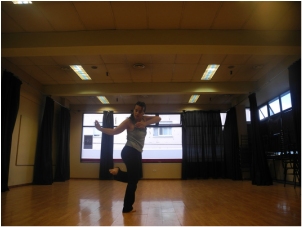
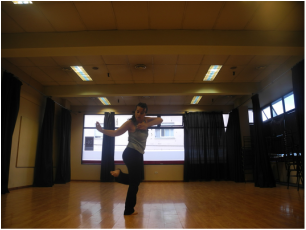
danza and entrenamiento updated

diff --git a/danza.html b/danza.html
@@ -11,7 +11,7 @@
 		<link id="wsite-base-style" rel="stylesheet" type="text/css" href="http://cdn2.editmysite.com/css/sites.css?buildTime=1234" />
 <link rel="stylesheet" type="text/css" href="http://cdn1.editmysite.com/editor/libraries/fancybox/fancybox.css?1234" />
 <link rel="stylesheet" type="text/css" href="http://cdn2.editmysite.com/css/social-icons.css?buildtime=1234" media="screen,projection" />
-<link rel="stylesheet" type="text/css" href="files/main_style.css?1462127365" title="wsite-theme-css" />
+<link rel="stylesheet" type="text/css" href="files/main_style.css?1462133523" title="wsite-theme-css" />
 <link href='http://fonts.googleapis.com/css?family=Open+Sans:400,300,300italic,700,400italic,700italic&subset=latin,latin-ext' rel='stylesheet' type='text/css' />
 <link href='http://fonts.googleapis.com/css?family=Raleway:400,300,200,700&subset=latin,latin-ext' rel='stylesheet' type='text/css' />
 
@@ -232,7 +232,7 @@ var STYLE_PREFIX = 'wsite';
 	<table class="wsite-multicol-table">
 		<tbody class="wsite-multicol-tbody">
 			<tr class="wsite-multicol-tr">
-				<td class="wsite-multicol-col" style="width:33.333333333333%; padding:0 15px;">
+				<td class="wsite-multicol-col" style="width:33.838383838384%; padding:0 15px;">
 					
 						
 
@@ -245,7 +245,15 @@ var STYLE_PREFIX = 'wsite';
 
 
 					
-				</td>				<td class="wsite-multicol-col" style="width:33.333333333333%; padding:0 15px;">
+				</td>				<td class="wsite-multicol-col" style="width:66.161616161616%; padding:0 15px;">
+					
+						
+
+<div><div class="wsite-multicol"><div class="wsite-multicol-table-wrap" style="margin:0 -15px;">
+	<table class="wsite-multicol-table">
+		<tbody class="wsite-multicol-tbody">
+			<tr class="wsite-multicol-tr">
+				<td class="wsite-multicol-col" style="width:50%; padding:0 15px;">
 					
 						
 
@@ -256,15 +264,17 @@ var STYLE_PREFIX = 'wsite';
 <div style="display:block;font-size:90%"></div>
 </div></div>
 
+<div class="paragraph" style="text-align:center;">Muestra alumnos</div>
+
 
 					
-				</td>				<td class="wsite-multicol-col" style="width:33.333333333333%; padding:0 15px;">
+				</td>				<td class="wsite-multicol-col" style="width:50%; padding:0 15px;">
 					
 						
 
-<div><div class="wsite-image wsite-image-border-none " style="padding-top:10px;padding-bottom:10px;margin-left:0px;margin-right:10px;text-align:right">
+<div><div class="wsite-image wsite-image-border-border-width:0 " style="padding-top:10px;padding-bottom:10px;margin-left:0;margin-right:0;text-align:left">
 <a>
-<img src="uploads/7/2/7/5/72758963/7282353.jpg?1462127072" alt="Picture" style="width:auto;max-width:100%" />
+<img src="uploads/7/2/7/5/72758963/393638.jpg?465" alt="Picture" style="width:465;max-width:100%" />
 </a>
 <div style="display:block;font-size:90%"></div>
 </div></div>
@@ -276,7 +286,14 @@ var STYLE_PREFIX = 'wsite';
 	</table>
 </div></div></div>
 
-<blockquote style="text-align:left;"><font size="6"><span>Un lenguaje propio basado en la t&eacute;cnica</span></font><span><font size="6"> release &amp; flying low</font></span></blockquote>
+
+					
+				</td>			</tr>
+		</tbody>
+	</table>
+</div></div></div>
+
+<blockquote style="text-align:left;"><font size="6"><span>Un lenguaje propio basado en</span></font><span><font size="6">&nbsp;t&eacute;cnicas mixtas, release &amp; flying low e improvisaci&oacute;n</font></span></blockquote>
 
 <div><div style="height: 20px; overflow: hidden; width: 100%;"></div>
 <hr class="styled-hr" style="width:100%;"></hr>
@@ -290,7 +307,7 @@ var STYLE_PREFIX = 'wsite';
 					
 						
 
-<div class="paragraph" style="text-align:left;"><span id="selectionBoundary_1462126994097_659158622008313"><br />&#65279;</span><font size="5"><font color="#818181"><strong>Clases de Danza Contempor&aacute;nea</strong></font>&#65279;</font><font color="#515151"><br /><br /><font size="4">&#8203;Un recorrido por el cuerpo humano, concientizando y sensibilizando las diferentes partes del cuerpo, desde la partes m&aacute;s blandas, m&uacute;sculos y huesos.&nbsp;<br /><br />Entrenar y descubrir las potencialidades de cada uno, explorando dentro de la t&eacute;cnica el lenguaje que cada individuo puede desarrollar.&nbsp;<br /><br />Conceptos a trabajar: alineamiento, flexibilidad, calidad de movimiento, peso, apoyos del cuerpo, centro y extremidades del cuerpo, ca&iacute;da y recuperaci&oacute;n, espirales y torsi&oacute;n, suspensi&oacute;n del movimiento, impulsos, uso m&iacute;nimo del tono muscular, uso del espacio, din&aacute;micas y niveles.&nbsp;<br /><br />Asimismo se brindar&aacute; un espacio para la investigaci&oacute;n del movimiento, a trav&eacute;s de ejercicios de<br />improvisaci&oacute;n, ejercicios y juegos grupales de composici&oacute;n instant&aacute;nea reconociendo diferentes maneras de relaci&oacute;n con el espacio y con los otros.&nbsp;<br /><br />&#8203;Montaje de peque&ntilde;os formatos &uacute;tiles para la escena teatral, piezas coreogr&aacute;ficas y performance.&nbsp;<br />Realizaci&oacute;n de muestra anual con participaci&oacute;n de los alumnos y co direcci&oacute;n.<br /><br /></font></font><a href="http://www.silvinadamia.com/entrenamiento.html"><strong>Tambi&eacute;n se dictan Clases de&nbsp;Entrenamiento Corporal Integral</strong></a><font color="#515151"></font><br /></div>
+<div class="paragraph" style="text-align:left;"><br /><span id="selectionBoundary_1462126994097_659158622008313">&#65279;</span><font size="5"><font color="#818181"><strong>Clases de Danza Contempor&aacute;nea</strong></font>&#65279;</font><font color="#515151"><br /><br /><font size="4">&#8203;Un recorrido por el cuerpo humano, concientizando y sensibilizando las diferentes partes del cuerpo, desde la partes m&aacute;s blandas, m&uacute;sculos y huesos.&nbsp;<br /><br />Entrenar y descubrir las potencialidades de cada uno, explorando dentro de la t&eacute;cnica el lenguaje que cada individuo puede desarrollar.&nbsp;<br /><br />Conceptos a trabajar: alineamiento, flexibilidad, calidad de movimiento, peso, apoyos del cuerpo, centro y extremidades del cuerpo, ca&iacute;da y recuperaci&oacute;n, espirales y torsi&oacute;n, suspensi&oacute;n del movimiento, impulsos, uso m&iacute;nimo del tono muscular, uso del espacio, din&aacute;micas y niveles.&nbsp;<br /><br />Asimismo se brindar&aacute; un espacio para la investigaci&oacute;n del movimiento, a trav&eacute;s de ejercicios de<br />improvisaci&oacute;n, ejercicios y juegos grupales de composici&oacute;n instant&aacute;nea reconociendo diferentes maneras de relaci&oacute;n con el espacio y con los otros.&nbsp;<br /><br />&#8203;Montaje de peque&ntilde;os formatos &uacute;tiles para la escena teatral, piezas coreogr&aacute;ficas y performance.&nbsp;<br />Realizaci&oacute;n de muestra anual con participaci&oacute;n de los alumnos y co direcci&oacute;n.</font></font><br /><br /><strong>Tambi&eacute;n se dictan Clases de&nbsp;Entrenamiento Corporal Integral&nbsp;-<a href="http://www.silvinadamia.com/entrenamiento.html">&nbsp;Ver m&aacute;s</a></strong></div>
 
 
 					
@@ -300,7 +317,62 @@ var STYLE_PREFIX = 'wsite';
 
 <h2 class="wsite-content-title" style="text-align:center;"><span id="selectionBoundary_1455480009527_9425262517761439"><font size="5"><strong><font color="#818181">&#65279;<br />&#8203;Clase de prueba gratis*</font></strong></font><br /><font size="3"><font color="#818181"><br />Empez&aacute; ahora</font><font color="#626262">!</font></font></span></h2>
 
-<div><div id="410043484988612546" align="center" style="width: 100%; overflow-y: hidden;" class="wcustomhtml"> <iframe id="JotFormIFrame" onload="window.parent.scrollTo(0,0)" allowtransparency="true" src="https://form.jotformz.com/61214989794673" frameborder="0" style="width:100%; height:539px; border:none;" scrolling="no"> </iframe> <script type="text/javascript"> window.handleIFrameMessage = function(e) { var args = e.data.split(":"); var iframe = document.getElementById("JotFormIFrame"); if (!iframe) return; switch (args[0]) { case "scrollIntoView": iframe.scrollIntoView(); break; case "setHeight": iframe.style.height = args[1] + "px"; break; case "collapseErrorPage": if (iframe.clientHeight > window.innerHeight) { iframe.style.height = window.innerHeight + "px"; } break; case "reloadPage": window.location.reload(); break; } var isJotForm = (e.origin.indexOf("jotform") > -1) ? true : false; if(isJotForm && "contentWindow" in iframe && "postMessage" in iframe.contentWindow) { var urls = {"docurl":encodeURIComponent(document.URL),"referrer":encodeURIComponent(document.referrer)}; iframe.contentWindow.postMessage(JSON.stringify({"type":"urls","value":urls}), "*"); } }; if (window.addEventListener) { window.addEventListener("message", handleIFrameMessage, false); } else if (window.attachEvent) { window.attachEvent("onmessage", handleIFrameMessage); } if(window.location.href && window.location.href.indexOf("?") > -1) { var ifr = document.getElementById("JotFormIFrame"); var get = window.location.href.substr(window.location.href.indexOf("?") + 1); if(ifr && get.length > 0) { var src = ifr.src; src = src.indexOf("?") > -1 ? src + "&" + get : src + "?" + get; ifr.src = src; } } </script></div>
+<div><div id="774631905658495192" align="left" style="width: 100%; overflow-y: hidden;" class="wcustomhtml">
+    <iframe
+      id="JotFormIFrame"
+      onload="window.parent.scrollTo(0,0)"
+      allowtransparency="true"
+      src="https://form.jotformz.com/61215307856657"
+      frameborder="0"
+      style="width:100%;
+      height:539px;
+      border:none;"
+      scrolling="no">
+    </iframe>
+    <script type="text/javascript">
+      window.handleIFrameMessage = function(e) {
+        var args = e.data.split(":");
+        var iframe = document.getElementById("JotFormIFrame");
+        if (!iframe)
+          return;
+        switch (args[0]) {
+          case "scrollIntoView":
+            iframe.scrollIntoView();
+            break;
+          case "setHeight":
+            iframe.style.height = args[1] + "px";
+            break;
+          case "collapseErrorPage":
+            if (iframe.clientHeight > window.innerHeight) {
+              iframe.style.height = window.innerHeight + "px";
+            }
+            break;
+          case "reloadPage":
+            window.location.reload();
+            break;
+        }
+        var isJotForm = (e.origin.indexOf("jotform") > -1) ? true : false;
+        if(isJotForm && "contentWindow" in iframe && "postMessage" in iframe.contentWindow) {
+          var urls = {"docurl":encodeURIComponent(document.URL),"referrer":encodeURIComponent(document.referrer)};
+          iframe.contentWindow.postMessage(JSON.stringify({"type":"urls","value":urls}), "*");
+        }
+      };
+      if (window.addEventListener) {
+        window.addEventListener("message", handleIFrameMessage, false);
+      } else if (window.attachEvent) {
+        window.attachEvent("onmessage", handleIFrameMessage);
+      }
+      if(window.location.href && window.location.href.indexOf("?") > -1) {
+        var ifr = document.getElementById("JotFormIFrame");
+        var get = window.location.href.substr(window.location.href.indexOf("?") + 1);
+        if(ifr && get.length > 0) {
+          var src = ifr.src;
+          src = src.indexOf("?") > -1 ? src + "&" + get : src  + "?" + get;
+          ifr.src = src;
+        }
+      }
+      </script>
+</div>
 
 
 
@@ -334,9 +406,9 @@ var STYLE_PREFIX = 'wsite';
 					
 						
 
-<div><div class="wsite-image wsite-image-border-border-width:0 " style="padding-top:10px;padding-bottom:10px;margin-left:0;margin-right:0;text-align:left">
+<div><div class="wsite-image wsite-image-border-none " style="padding-top:10px;padding-bottom:10px;margin-left:0px;margin-right:10px;text-align:right">
 <a>
-<img src="uploads/7/2/7/5/72758963/393638.jpg?465" alt="Picture" style="width:465;max-width:100%" />
+<img src="uploads/7/2/7/5/72758963/7282353.jpg?1462131848" alt="Picture" style="width:auto;max-width:100%" />
 </a>
 <div style="display:block;font-size:90%"></div>
 </div></div>
@@ -366,7 +438,7 @@ var STYLE_PREFIX = 'wsite';
 
     <div class="footer-wrap">
       <div class="container">
-        <div class="footer">Create a <a target="_top" href="http://www.weebly.com/">free web site</a> with <a target="_top" href="http://www.weebly.com/" title="sitio web gratuito">Weebly</a></div>
+        <div class="footer">Create a <a target="_top" href="http://www.weebly.com/">free web site</a> with <a target="_top" href="http://www.weebly.com/" title="free web site">Weebly</a></div>
       </div><!-- end container -->
     </div><!-- end footer-wrap -->
   </div><!-- /.wrapper -->

diff --git a/files/main_style.css b/files/main_style.css
@@ -50,7 +50,7 @@
  #wsite-menus .wsite-menu-arrow:before { display: block; color: white; content: '\203A'; font-family: 'Open Sans', sans-serif; font-size: 24px; font-weight: normal; line-height: 11px; }
  #wsite-mini-cart { position: fixed !important; top: 80px !important; overflow-y: scroll; max-height: 600px; -webkit-box-shadow: none; -moz-box-shadow: none; box-shadow: none; }
  #wsite-mini-cart .wsite-css-aspect { width: 50px; height: 50px; margin: 10px; }
- .banner-wrap { position: relative; z-index: 6; overflow: hidden; height: 100%; background: url('theme/default-bg.jpg?1462127365') center center no-repeat; background-size: cover; -webkit-transition: all 500ms ease; -moz-transition: all 500ms ease; -ms-transition: all 500ms ease; -o-transition: all 500ms ease; transition: all 500ms ease; }
+ .banner-wrap { position: relative; z-index: 6; overflow: hidden; height: 100%; background: url('theme/default-bg.jpg?1462133523') center center no-repeat; background-size: cover; -webkit-transition: all 500ms ease; -moz-transition: all 500ms ease; -ms-transition: all 500ms ease; -o-transition: all 500ms ease; transition: all 500ms ease; }
  .banner-wrap:before { position: absolute; top: 0; left: 0; width: 100%; height: 100%; background: rgba(0, 0, 0, 0.2); content: ' '; }
  .banner-wrap .container { position: relative; display: table; width: 100%; height: 100%; padding: 80px 0; }
  .banner-wrap .banner { display: table-cell; width: 100%; vertical-align: middle; text-align: center; -webkit-transition: all 500ms ease; -moz-transition: all 500ms ease; -ms-transition: all 500ms ease; -o-transition: all 500ms ease; transition: all 500ms ease; }
@@ -80,7 +80,7 @@
  .footer-wrap input[type="checkbox"]:after { background: #181818; border: solid #2a92e5; }
  .footer-wrap .wsite-form-container { margin-top: 0; text-align: left; }
  .footer-wrap .wsite-form-input, .footer-wrap .wsite-search-element-input { padding: 10px 6px !important; background: #181818; color: #626262; border: none; border-radius: 5px; font-family: 'Open Sans', sans-serif; font-size: 14px; font-weight: 400; line-height: normal; }
- .footer-wrap .form-select { padding: 10px; background: #181818 url(theme/select-dropdown.png?1462127365) 97% center no-repeat; color: #626262; border: none; border-radius: 5px; font-family: 'Open Sans', sans-serif; font-size: 14px; font-weight: 400; line-height: 15px; }
+ .footer-wrap .form-select { padding: 10px; background: #181818 url(theme/select-dropdown.png?1462133523) 97% center no-repeat; color: #626262; border: none; border-radius: 5px; font-family: 'Open Sans', sans-serif; font-size: 14px; font-weight: 400; line-height: 15px; }
  .footer-wrap .wsite-button .wsite-button-inner, .footer-wrap .wsite-button-large .wsite-button-inner { background: transparent; color: #2a92e5 !important; border: 2px solid #2a92e5; }
  .footer-wrap .wsite-button:hover .wsite-button-inner, .footer-wrap .wsite-button-large:hover .wsite-button-inner { background: #2a92e5; color: #ffffff !important; }
  .wsite-social-item { display: inline-block !important; width: 30px !important; height: 30px !important; margin-right: 10px; background: #515151; border-radius: 15px; text-align: center; -webkit-transition: all 300ms ease; -moz-transition: all 300ms ease; -ms-transition: all 300ms ease; -o-transition: all 300ms ease; transition: all 300ms ease; }
@@ -101,7 +101,7 @@
  .wsite-form-input:focus, .wsite-form-input--focus, .wsite-search-element-input:focus { border-color: #a1a1a1; }
  .wsite-search-element { margin-bottom: 15px; }
  .wsite-search-element .wsite-search-element-input { margin-bottom: 0; }
- .form-select, .wsite-form-field select, .wsite-com-product-option-groups select { height: 40px; padding: 8px; background: #fafafa url(theme/select-dropdown.png?1462127365) 97% center no-repeat; color: #626262; border: 1px solid #cccccc; border-radius: 2px; box-sizing: border-box; font-family: 'Open Sans', sans-serif; font-size: 15px; font-weight: 300; line-height: normal; }
+ .form-select, .wsite-form-field select, .wsite-com-product-option-groups select { height: 40px; padding: 8px; background: #fafafa url(theme/select-dropdown.png?1462133523) 97% center no-repeat; color: #626262; border: 1px solid #cccccc; border-radius: 2px; box-sizing: border-box; font-family: 'Open Sans', sans-serif; font-size: 15px; font-weight: 300; line-height: normal; }
  .form-select:focus, .wsite-form-field select:focus, .wsite-com-product-option-groups select:focus { border-color: #a1a1a1; }
  .formlist, .wsite-editor .formlist { min-height: inherit; }
  .wsite-form-container .form-input-error { border: 1px solid red !important; }
@@ -143,7 +143,7 @@
  .splash-page { position: relative; top: 0; left: 0; width: 100%; height: 100%; min-height: 100vh; background: none; color: #ffffff; box-sizing: border-box; }
  .splash-page .wrapper { height: 100%; }
  .splash-page .birdseye-header { padding-top: 20px; padding-bottom: 20px; background: none; background-image: none !important; box-sizing: border-box; }
- .splash-page .main-wrap { position: relative; display: table; width: 100%; height: 100%; min-height: 100vh; background: url(theme/default-bg.jpg?1462127365) no-repeat; background-attachment: fixed !important; background-size: cover; box-sizing: border-box; }
+ .splash-page .main-wrap { position: relative; display: table; width: 100%; height: 100%; min-height: 100vh; background: url(theme/default-bg.jpg?1462133523) no-repeat; background-attachment: fixed !important; background-size: cover; box-sizing: border-box; }
  .splash-page .main-wrap:before { position: absolute; top: 0; left: 0; display: block; width: 100%; height: 100%; background: rgba(0, 0, 0, 0.2); content: ' '; }
  .splash-page .main-wrap > .container { position: relative; display: table; height: 100%; box-sizing: border-box; }
  .splash-page .main-wrap .content-wrap { display: table-cell; vertical-align: middle; }

diff --git a/entrenamiento.html b/entrenamiento.html
@@ -11,7 +11,7 @@
 		<link id="wsite-base-style" rel="stylesheet" type="text/css" href="http://cdn2.editmysite.com/css/sites.css?buildTime=1234" />
 <link rel="stylesheet" type="text/css" href="http://cdn1.editmysite.com/editor/libraries/fancybox/fancybox.css?1234" />
 <link rel="stylesheet" type="text/css" href="http://cdn2.editmysite.com/css/social-icons.css?buildtime=1234" media="screen,projection" />
-<link rel="stylesheet" type="text/css" href="files/main_style.css?1462127365" title="wsite-theme-css" />
+<link rel="stylesheet" type="text/css" href="files/main_style.css?1462133523" title="wsite-theme-css" />
 <link href='http://fonts.googleapis.com/css?family=Open+Sans:400,300,300italic,700,400italic,700italic&subset=latin,latin-ext' rel='stylesheet' type='text/css' />
 <link href='http://fonts.googleapis.com/css?family=Raleway:400,300,200,700&subset=latin,latin-ext' rel='stylesheet' type='text/css' />
 
@@ -235,7 +235,7 @@ var STYLE_PREFIX = 'wsite';
 
 				<div style="height: 20px; overflow: hidden;"></div></div>
 
-<blockquote style="text-align:left;">&#8203;<font size="4">&#8203;</font><font size="5">La propuesta de las clases es trabajar sobre el cuerpo desde una mirada global, de salud, orientadas a mejorar la calidad de vida.</font></blockquote>
+<blockquote style="text-align:left;">&#8203;<font size="4">&#8203;&#8203;</font><font size="5">Trabajar el cuerpo desde una mirada integradora, priorizando la salud, para una mejor calidad de vida.</font></blockquote>
 
 <div><div style="height: 20px; overflow: hidden; width: 100%;"></div>
 <hr class="styled-hr" style="width:100%;"></hr>
@@ -249,7 +249,7 @@ var STYLE_PREFIX = 'wsite';
 					
 						
 
-<div class="paragraph" style="text-align:left;"><font size="5"><font color="#818181"><strong><span id="selectionBoundary_1462125308949_17145561658895492">Clases de Entrenamiento Corporal Integral&#65279;</span><span id="selectionBoundary_1462125298778_4157989726998197">&#65279;</span><span id="selectionBoundary_1462124897646_8553432615676606">&#65279;</span></strong></font></font><br /><font size="4"><span><span>&#8203;<br />Entrenamiento f&iacute;sico, danza y t&eacute;cnicas corporales terap&eacute;uticas* son combinadas en ejercicios orientados a desarrollar la conciencia y reeducaci&oacute;n corporal desde el movimiento org&aacute;nico.</span></span><br /><br /><span><span>Trabajamos la postura, mejorando la fuerza y flexibilidad de piernas, rotaci&oacute;n, abdominales, espalda y brazos ayudando a prevenir y tratar lesiones actuales.</span></span><br /><br /><span><span>En las clases se utilizan adem&aacute;s elementos del yoga , el pilates mat, barra terre, pelotas, bandas el&aacute;sticas, sogas, sillas acompa&ntilde;adas con est&iacute;mulos musicales.</span></span></font><br /><br /><span><span><font size="4">Las secuencias de movimientos y rutinas son adaptadas al nivel y necesidades de cada alumno. Trabajando individualmente y en grupos reducidos.</font></span></span><br /><br /><a href="http://www.silvinadamia.com/danza.html"><strong>Tambi&eacute;n se dictan Clases de Danza Contempor&aacute;nea&nbsp;</strong></a></div>
+<div class="paragraph" style="text-align:left;"><font size="5"><font color="#818181"><strong><span id="selectionBoundary_1462125308949_17145561658895492">Clases de Entrenamiento Corporal Integral&#65279;</span><span id="selectionBoundary_1462125298778_4157989726998197">&#65279;</span><span id="selectionBoundary_1462124897646_8553432615676606">&#65279;</span></strong></font></font><br /><font size="4"><span><span>&#8203;<br />Entrenamiento f&iacute;sico, danza y t&eacute;cnicas corporales terap&eacute;uticas* son combinadas en ejercicios orientados a desarrollar la conciencia y reeducaci&oacute;n corporal desde el movimiento org&aacute;nico.</span></span><br /><br /><span><span>Trabajamos la postura, mejorando la fuerza y flexibilidad de piernas, rotaci&oacute;n, abdominales, espalda y brazos ayudando a prevenir y tratar lesiones actuales.</span></span><br /><br /><span><span>En las clases se utilizan adem&aacute;s elementos del yoga , el pilates mat, barra terre, pelotas, bandas el&aacute;sticas, sogas, sillas acompa&ntilde;adas con est&iacute;mulos musicales.</span></span></font><br /><br /><span><span><font size="4">Las secuencias de movimientos y rutinas son adaptadas al nivel y necesidades de cada alumno. Trabajando individualmente y en grupos reducidos.</font></span></span><br /><br /><strong>Tambi&eacute;n se dictan Clases de Danza Contempor&aacute;nea&nbsp;- <a href="http://www.silvinadamia.com/danza.html">Ver m&aacute;s</a></strong></div>
 
 
 					
@@ -279,7 +279,7 @@ var STYLE_PREFIX = 'wsite';
 
     <div class="footer-wrap">
       <div class="container">
-        <div class="footer">Create a <a target="_top" href="http://www.weebly.com/">free web site</a> with <a target="_top" href="http://www.weebly.com/" title="sitio web gratuito">Weebly</a></div>
+        <div class="footer">Create a <a target="_top" href="http://www.weebly.com/">free web site</a> with <a target="_top" href="http://www.weebly.com/" title="free web site">Weebly</a></div>
       </div><!-- end container -->
     </div><!-- end footer-wrap -->
   </div><!-- /.wrapper -->

diff --git a/interprete.html b/interprete.html
@@ -11,7 +11,7 @@
 		<link id="wsite-base-style" rel="stylesheet" type="text/css" href="http://cdn2.editmysite.com/css/sites.css?buildTime=1234" />
 <link rel="stylesheet" type="text/css" href="http://cdn1.editmysite.com/editor/libraries/fancybox/fancybox.css?1234" />
 <link rel="stylesheet" type="text/css" href="http://cdn2.editmysite.com/css/social-icons.css?buildtime=1234" media="screen,projection" />
-<link rel="stylesheet" type="text/css" href="files/main_style.css?1462127365" title="wsite-theme-css" />
+<link rel="stylesheet" type="text/css" href="files/main_style.css?1462133523" title="wsite-theme-css" />
 <link href='http://fonts.googleapis.com/css?family=Open+Sans:400,300,300italic,700,400italic,700italic&subset=latin,latin-ext' rel='stylesheet' type='text/css' />
 <link href='http://fonts.googleapis.com/css?family=Raleway:400,300,200,700&subset=latin,latin-ext' rel='stylesheet' type='text/css' />
 
@@ -423,7 +423,7 @@ jQuery ? jQuery(init) : document.observe('dom:loaded', init)
 
     <div class="footer-wrap">
       <div class="container">
-        <div class="footer">Create a <a target="_top" href="http://www.weebly.com/">free web site</a> with <a target="_top" href="http://www.weebly.com/" title="sitio web gratuito">Weebly</a></div>
+        <div class="footer">Create a <a target="_top" href="http://www.weebly.com/">free web site</a> with <a target="_top" href="http://www.weebly.com/" title="free web site">Weebly</a></div>
       </div><!-- end container -->
     </div><!-- end footer-wrap -->
   </div><!-- /.wrapper -->

diff --git a/bio.html b/bio.html
@@ -11,7 +11,7 @@
 		<link id="wsite-base-style" rel="stylesheet" type="text/css" href="http://cdn2.editmysite.com/css/sites.css?buildTime=1234" />
 <link rel="stylesheet" type="text/css" href="http://cdn1.editmysite.com/editor/libraries/fancybox/fancybox.css?1234" />
 <link rel="stylesheet" type="text/css" href="http://cdn2.editmysite.com/css/social-icons.css?buildtime=1234" media="screen,projection" />
-<link rel="stylesheet" type="text/css" href="files/main_style.css?1462127365" title="wsite-theme-css" />
+<link rel="stylesheet" type="text/css" href="files/main_style.css?1462133523" title="wsite-theme-css" />
 <link href='http://fonts.googleapis.com/css?family=Open+Sans:400,300,300italic,700,400italic,700italic&subset=latin,latin-ext' rel='stylesheet' type='text/css' />
 <link href='http://fonts.googleapis.com/css?family=Raleway:400,300,200,700&subset=latin,latin-ext' rel='stylesheet' type='text/css' />
 
@@ -237,7 +237,7 @@ var STYLE_PREFIX = 'wsite';
 
     <div class="footer-wrap">
       <div class="container">
-        <div class="footer">Create a <a target="_top" href="http://www.weebly.com/">free web site</a> with <a target="_top" href="http://www.weebly.com/" title="sitio web gratuito">Weebly</a></div>
+        <div class="footer">Create a <a target="_top" href="http://www.weebly.com/">free web site</a> with <a target="_top" href="http://www.weebly.com/" title="free web site">Weebly</a></div>
       </div><!-- end container -->
     </div><!-- end footer-wrap -->
   </div><!-- /.wrapper -->

diff --git a/blog.html b/blog.html
@@ -11,7 +11,7 @@
 		<link id="wsite-base-style" rel="stylesheet" type="text/css" href="http://cdn2.editmysite.com/css/sites.css?buildTime=1234" />
 <link rel="stylesheet" type="text/css" href="http://cdn1.editmysite.com/editor/libraries/fancybox/fancybox.css?1234" />
 <link rel="stylesheet" type="text/css" href="http://cdn2.editmysite.com/css/social-icons.css?buildtime=1234" media="screen,projection" />
-<link rel="stylesheet" type="text/css" href="files/main_style.css?1462127365" title="wsite-theme-css" />
+<link rel="stylesheet" type="text/css" href="files/main_style.css?1462133523" title="wsite-theme-css" />
 <link href='http://fonts.googleapis.com/css?family=Open+Sans:400,300,300italic,700,400italic,700italic&subset=latin,latin-ext' rel='stylesheet' type='text/css' />
 <link href='http://fonts.googleapis.com/css?family=Raleway:400,300,200,700&subset=latin,latin-ext' rel='stylesheet' type='text/css' />
 
@@ -301,7 +301,7 @@ var STYLE_PREFIX = 'wsite';
 
     <div class="footer-wrap">
       <div class="container">
-        <div class="footer">Create a <a target="_top" href="http://www.weebly.com/">free web site</a> with <a target="_top" href="http://www.weebly.com/" title="sitio web gratuito">Weebly</a></div>
+        <div class="footer">Create a <a target="_top" href="http://www.weebly.com/">free web site</a> with <a target="_top" href="http://www.weebly.com/" title="free web site">Weebly</a></div>
       </div><!-- end container -->
     </div><!-- end footer-wrap -->
   </div><!-- /.wrapper -->

diff --git a/clases.html b/clases.html
@@ -11,7 +11,7 @@
 		<link id="wsite-base-style" rel="stylesheet" type="text/css" href="http://cdn2.editmysite.com/css/sites.css?buildTime=1234" />
 <link rel="stylesheet" type="text/css" href="http://cdn1.editmysite.com/editor/libraries/fancybox/fancybox.css?1234" />
 <link rel="stylesheet" type="text/css" href="http://cdn2.editmysite.com/css/social-icons.css?buildtime=1234" media="screen,projection" />
-<link rel="stylesheet" type="text/css" href="files/main_style.css?1462127365" title="wsite-theme-css" />
+<link rel="stylesheet" type="text/css" href="files/main_style.css?1462133523" title="wsite-theme-css" />
 <link href='http://fonts.googleapis.com/css?family=Open+Sans:400,300,300italic,700,400italic,700italic&subset=latin,latin-ext' rel='stylesheet' type='text/css' />
 <link href='http://fonts.googleapis.com/css?family=Raleway:400,300,200,700&subset=latin,latin-ext' rel='stylesheet' type='text/css' />
 
@@ -291,7 +291,7 @@ var STYLE_PREFIX = 'wsite';
 
     <div class="footer-wrap">
       <div class="container">
-        <div class="footer">Create a <a target="_top" href="http://www.weebly.com/">free web site</a> with <a target="_top" href="http://www.weebly.com/" title="sitio web gratuito">Weebly</a></div>
+        <div class="footer">Create a <a target="_top" href="http://www.weebly.com/">free web site</a> with <a target="_top" href="http://www.weebly.com/" title="free web site">Weebly</a></div>
       </div><!-- end container -->
     </div><!-- end footer-wrap -->
   </div><!-- /.wrapper -->

diff --git a/contacto.html b/contacto.html
@@ -11,7 +11,7 @@
 		<link id="wsite-base-style" rel="stylesheet" type="text/css" href="http://cdn2.editmysite.com/css/sites.css?buildTime=1234" />
 <link rel="stylesheet" type="text/css" href="http://cdn1.editmysite.com/editor/libraries/fancybox/fancybox.css?1234" />
 <link rel="stylesheet" type="text/css" href="http://cdn2.editmysite.com/css/social-icons.css?buildtime=1234" media="screen,projection" />
-<link rel="stylesheet" type="text/css" href="files/main_style.css?1462127365" title="wsite-theme-css" />
+<link rel="stylesheet" type="text/css" href="files/main_style.css?1462133523" title="wsite-theme-css" />
 <link href='http://fonts.googleapis.com/css?family=Open+Sans:400,300,300italic,700,400italic,700italic&subset=latin,latin-ext' rel='stylesheet' type='text/css' />
 <link href='http://fonts.googleapis.com/css?family=Raleway:400,300,200,700&subset=latin,latin-ext' rel='stylesheet' type='text/css' />
 
@@ -283,7 +283,7 @@ var STYLE_PREFIX = 'wsite';
 
     <div class="footer-wrap">
       <div class="container">
-        <div class="footer">Create a <a target="_top" href="http://www.weebly.com/">free web site</a> with <a target="_top" href="http://www.weebly.com/" title="sitio web gratuito">Weebly</a></div>
+        <div class="footer">Create a <a target="_top" href="http://www.weebly.com/">free web site</a> with <a target="_top" href="http://www.weebly.com/" title="free web site">Weebly</a></div>
       </div><!-- end container -->
     </div><!-- end footer-wrap -->
   </div><!-- /.wrapper -->

diff --git a/creaciones.html b/creaciones.html
@@ -11,7 +11,7 @@
 		<link id="wsite-base-style" rel="stylesheet" type="text/css" href="http://cdn2.editmysite.com/css/sites.css?buildTime=1234" />
 <link rel="stylesheet" type="text/css" href="http://cdn1.editmysite.com/editor/libraries/fancybox/fancybox.css?1234" />
 <link rel="stylesheet" type="text/css" href="http://cdn2.editmysite.com/css/social-icons.css?buildtime=1234" media="screen,projection" />
-<link rel="stylesheet" type="text/css" href="files/main_style.css?1462127365" title="wsite-theme-css" />
+<link rel="stylesheet" type="text/css" href="files/main_style.css?1462133523" title="wsite-theme-css" />
 <link href='http://fonts.googleapis.com/css?family=Open+Sans:400,300,300italic,700,400italic,700italic&subset=latin,latin-ext' rel='stylesheet' type='text/css' />
 <link href='http://fonts.googleapis.com/css?family=Raleway:400,300,200,700&subset=latin,latin-ext' rel='stylesheet' type='text/css' />
 
@@ -280,7 +280,7 @@ var STYLE_PREFIX = 'wsite';
 
     <div class="footer-wrap">
       <div class="container">
-        <div class="footer">Create a <a target="_top" href="http://www.weebly.com/">free web site</a> with <a target="_top" href="http://www.weebly.com/" title="sitio web gratuito">Weebly</a></div>
+        <div class="footer">Create a <a target="_top" href="http://www.weebly.com/">free web site</a> with <a target="_top" href="http://www.weebly.com/" title="free web site">Weebly</a></div>
       </div><!-- end container -->
     </div><!-- end footer-wrap -->
   </div><!-- /.wrapper -->

diff --git a/index.html b/index.html
@@ -11,7 +11,7 @@
 		<link id="wsite-base-style" rel="stylesheet" type="text/css" href="http://cdn2.editmysite.com/css/sites.css?buildTime=1234" />
 <link rel="stylesheet" type="text/css" href="http://cdn1.editmysite.com/editor/libraries/fancybox/fancybox.css?1234" />
 <link rel="stylesheet" type="text/css" href="http://cdn2.editmysite.com/css/social-icons.css?buildtime=1234" media="screen,projection" />
-<link rel="stylesheet" type="text/css" href="files/main_style.css?1462127365" title="wsite-theme-css" />
+<link rel="stylesheet" type="text/css" href="files/main_style.css?1462133523" title="wsite-theme-css" />
 <link href='http://fonts.googleapis.com/css?family=Open+Sans:400,300,300italic,700,400italic,700italic&subset=latin,latin-ext' rel='stylesheet' type='text/css' />
 <link href='http://fonts.googleapis.com/css?family=Raleway:400,300,200,700&subset=latin,latin-ext' rel='stylesheet' type='text/css' />
 
@@ -321,7 +321,7 @@ var STYLE_PREFIX = 'wsite';
 
     <div class="footer-wrap">
       <div class="container">
-        <div class="footer">Create a <a target="_top" href="http://www.weebly.com/">free web site</a> with <a target="_top" href="http://www.weebly.com/" title="sitio web gratuito">Weebly</a></div>
+        <div class="footer">Create a <a target="_top" href="http://www.weebly.com/">free web site</a> with <a target="_top" href="http://www.weebly.com/" title="free web site">Weebly</a></div>
       </div><!-- end container -->
     </div><!-- end footer-wrap -->
   </div><!-- /.wrapper -->

diff --git a/plantar-indicios.html b/plantar-indicios.html
@@ -11,7 +11,7 @@
 		<link id="wsite-base-style" rel="stylesheet" type="text/css" href="http://cdn2.editmysite.com/css/sites.css?buildTime=1234" />
 <link rel="stylesheet" type="text/css" href="http://cdn1.editmysite.com/editor/libraries/fancybox/fancybox.css?1234" />
 <link rel="stylesheet" type="text/css" href="http://cdn2.editmysite.com/css/social-icons.css?buildtime=1234" media="screen,projection" />
-<link rel="stylesheet" type="text/css" href="files/main_style.css?1462127365" title="wsite-theme-css" />
+<link rel="stylesheet" type="text/css" href="files/main_style.css?1462133523" title="wsite-theme-css" />
 <link href='http://fonts.googleapis.com/css?family=Open+Sans:400,300,300italic,700,400italic,700italic&subset=latin,latin-ext' rel='stylesheet' type='text/css' />
 <link href='http://fonts.googleapis.com/css?family=Raleway:400,300,200,700&subset=latin,latin-ext' rel='stylesheet' type='text/css' />
 
@@ -334,7 +334,7 @@ var STYLE_PREFIX = 'wsite';
 
     <div class="footer-wrap">
       <div class="container">
-        <div class="footer">Create a <a target="_top" href="http://www.weebly.com/">free web site</a> with <a target="_top" href="http://www.weebly.com/" title="sitio web gratuito">Weebly</a></div>
+        <div class="footer">Create a <a target="_top" href="http://www.weebly.com/">free web site</a> with <a target="_top" href="http://www.weebly.com/" title="free web site">Weebly</a></div>
       </div><!-- end container -->
     </div><!-- end footer-wrap -->
   </div><!-- /.wrapper -->

diff --git a/empeza.html b/empeza.html
@@ -11,7 +11,7 @@
 		<link id="wsite-base-style" rel="stylesheet" type="text/css" href="http://cdn2.editmysite.com/css/sites.css?buildTime=1234" />
 <link rel="stylesheet" type="text/css" href="http://cdn1.editmysite.com/editor/libraries/fancybox/fancybox.css?1234" />
 <link rel="stylesheet" type="text/css" href="http://cdn2.editmysite.com/css/social-icons.css?buildtime=1234" media="screen,projection" />
-<link rel="stylesheet" type="text/css" href="files/main_style.css?1462127365" title="wsite-theme-css" />
+<link rel="stylesheet" type="text/css" href="files/main_style.css?1462133523" title="wsite-theme-css" />
 <link href='http://fonts.googleapis.com/css?family=Open+Sans:400,300,300italic,700,400italic,700italic&subset=latin,latin-ext' rel='stylesheet' type='text/css' />
 <link href='http://fonts.googleapis.com/css?family=Raleway:400,300,200,700&subset=latin,latin-ext' rel='stylesheet' type='text/css' />
 
@@ -232,7 +232,7 @@ var STYLE_PREFIX = 'wsite';
         </div>
 
         <div class="footer-wrap">
-            Create a <a target="_top" href="http://www.weebly.com/">free web site</a> with <a target="_top" href="http://www.weebly.com/" title="sitio web gratuito">Weebly</a>
+            Create a <a target="_top" href="http://www.weebly.com/">free web site</a> with <a target="_top" href="http://www.weebly.com/" title="free web site">Weebly</a>
         </div>
     </div>
 
